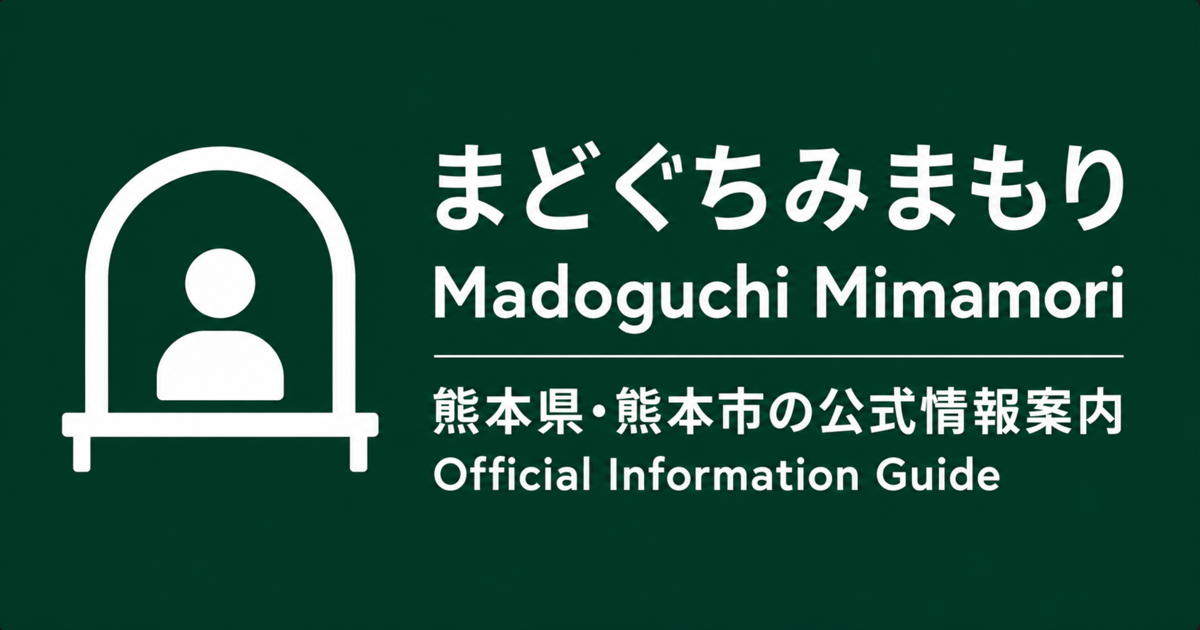
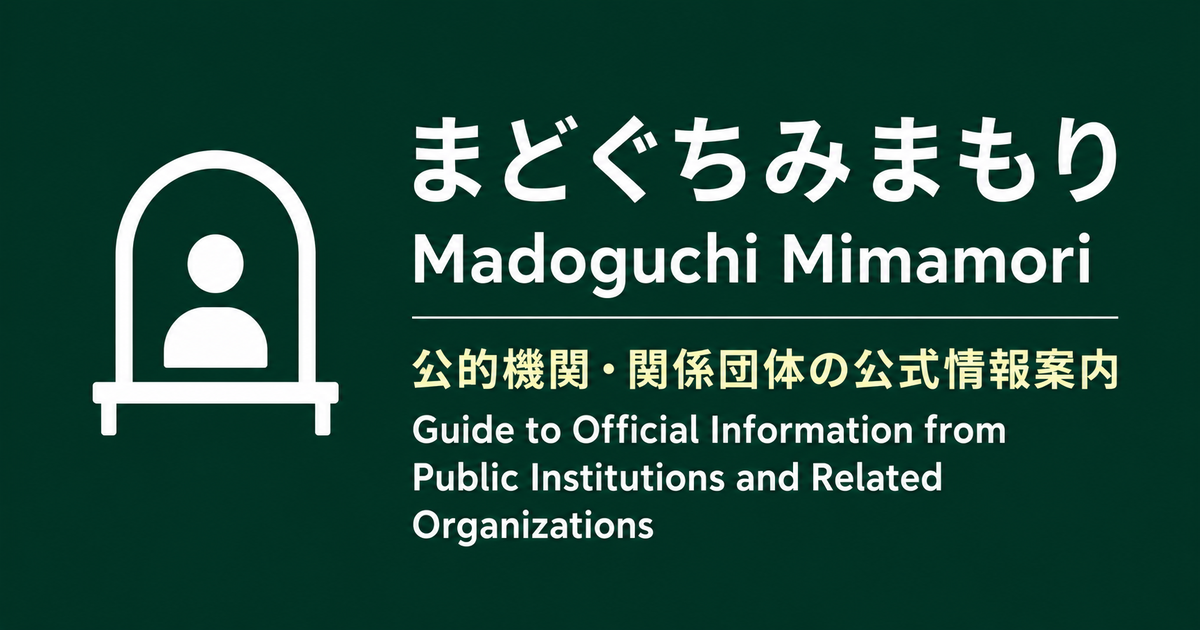
fix: update production OGP image and alt text

Changed region(s): [[0.0308, 0.181, 0.9558, 0.7841], [0.3392, 0.8143, 0.555, 0.8746], [0.9867, 0.9952, 1.0, 1.0]]

diff --git a/dist/site/production/en/regions/kumamoto/sections/public-institutions-disaster/index.html b/dist/site/production/en/regions/kumamoto/sections/public-institutions-disaster/index.html
@@ -23,13 +23,13 @@
   <meta property="og:image:type" content="image/png">
   <meta property="og:image:width" content="1200">
   <meta property="og:image:height" content="630">
-  <meta property="og:image:alt" content="An image with a white open-window symbol and the Madoguchi Mimamori name on a dark green background">
+  <meta property="og:image:alt" content="An image showing the Madoguchi Mimamori name and describing the site as a guide to official information from public institutions and related organizations, with a white open-window symbol on a dark green background">
   <meta name="twitter:card" content="summary_large_image">
   <meta name="twitter:site" content="@na0AaooQ">
   <meta name="twitter:title" content="Public Institutions and General Disaster Information | Kumamoto Prefecture | Madoguchi Mimamori">
   <meta name="twitter:description" content="Find official guidance from governments and public bodies on disaster information, evacuation, rivers, government response, and support.">
   <meta name="twitter:image" content="https://madoguchi.kokoromimamori.na0aaooq.com/ogp-image.png">
-  <meta name="twitter:image:alt" content="An image with a white open-window symbol and the Madoguchi Mimamori name on a dark green background">
+  <meta name="twitter:image:alt" content="An image showing the Madoguchi Mimamori name and describing the site as a guide to official information from public institutions and related organizations, with a white open-window symbol on a dark green background">
   <link rel="alternate" hreflang="en" href="https://madoguchi.kokoromimamori.na0aaooq.com/en/regions/kumamoto/sections/public-institutions-disaster/">
   <link rel="alternate" hreflang="ja" href="https://madoguchi.kokoromimamori.na0aaooq.com/ja/regions/kumamoto/sections/public-institutions-disaster/">
   <link rel="icon" href="/favicon.ico" sizes="16x16 32x32 48x48">

diff --git a/dist/site/production/en/regions/chiba/sections/public-institutions-disaster/index.html b/dist/site/production/en/regions/chiba/sections/public-institutions-disaster/index.html
@@ -23,13 +23,13 @@
   <meta property="og:image:type" content="image/png">
   <meta property="og:image:width" content="1200">
   <meta property="og:image:height" content="630">
-  <meta property="og:image:alt" content="An image with a white open-window symbol and the Madoguchi Mimamori name on a dark green background">
+  <meta property="og:image:alt" content="An image showing the Madoguchi Mimamori name and describing the site as a guide to official information from public institutions and related organizations, with a white open-window symbol on a dark green background">
   <meta name="twitter:card" content="summary_large_image">
   <meta name="twitter:site" content="@na0AaooQ">
   <meta name="twitter:title" content="Public Institutions and General Disaster Information | Chiba Prefecture | Madoguchi Mimamori">
   <meta name="twitter:description" content="Find official guidance from governments and public bodies on disaster information, evacuation, rivers, government response, and support.">
   <meta name="twitter:image" content="https://madoguchi.kokoromimamori.na0aaooq.com/ogp-image.png">
-  <meta name="twitter:image:alt" content="An image with a white open-window symbol and the Madoguchi Mimamori name on a dark green background">
+  <meta name="twitter:image:alt" content="An image showing the Madoguchi Mimamori name and describing the site as a guide to official information from public institutions and related organizations, with a white open-window symbol on a dark green background">
   <link rel="alternate" hreflang="en" href="https://madoguchi.kokoromimamori.na0aaooq.com/en/regions/chiba/sections/public-institutions-disaster/">
   <link rel="alternate" hreflang="ja" href="https://madoguchi.kokoromimamori.na0aaooq.com/ja/regions/chiba/sections/public-institutions-disaster/">
   <link rel="icon" href="/favicon.ico" sizes="16x16 32x32 48x48">

diff --git a/dist/site/production/en/index.html b/dist/site/production/en/index.html
@@ -23,13 +23,13 @@
   <meta property="og:image:type" content="image/png">
   <meta property="og:image:width" content="1200">
   <meta property="og:image:height" content="630">
-  <meta property="og:image:alt" content="An image with a white open-window symbol and the Madoguchi Mimamori name on a dark green background">
+  <meta property="og:image:alt" content="An image showing the Madoguchi Mimamori name and describing the site as a guide to official information from public institutions and related organizations, with a white open-window symbol on a dark green background">
   <meta name="twitter:card" content="summary_large_image">
   <meta name="twitter:site" content="@na0AaooQ">
   <meta name="twitter:title" content="Madoguchi Mimamori | Guide to Official Information from Public Institutions and Related Organizations">
   <meta name="twitter:description" content="A guide that helps users find the responsible public institution or related organization and proceed to that organization&#39;s own official information during disasters and other situations.">
   <meta name="twitter:image" content="https://madoguchi.kokoromimamori.na0aaooq.com/ogp-image.png">
-  <meta name="twitter:image:alt" content="An image with a white open-window symbol and the Madoguchi Mimamori name on a dark green background">
+  <meta name="twitter:image:alt" content="An image showing the Madoguchi Mimamori name and describing the site as a guide to official information from public institutions and related organizations, with a white open-window symbol on a dark green background">
   <link rel="alternate" hreflang="en" href="https://madoguchi.kokoromimamori.na0aaooq.com/en/">
   <link rel="alternate" hreflang="ja" href="https://madoguchi.kokoromimamori.na0aaooq.com/ja/">
   <link rel="icon" href="/favicon.ico" sizes="16x16 32x32 48x48">

diff --git a/dist/site/production/ja/regions/kumamoto/sections/public-institutions-disaster/index.html b/dist/site/production/ja/regions/kumamoto/sections/public-institutions-disaster/index.html
@@ -23,13 +23,13 @@
   <meta property="og:image:type" content="image/png">
   <meta property="og:image:width" content="1200">
   <meta property="og:image:height" content="630">
-  <meta property="og:image:alt" content="濃緑の背景に白い窓口のマークと、まどぐちみまもりの日英名称を表示した画像">
+  <meta property="og:image:alt" content="濃緑の背景に白い窓口のマークと「まどぐちみまもり / Madoguchi Mimamori」、公的機関・関係団体の公式情報案内であることを示す日英表記を表示した画像">
   <meta name="twitter:card" content="summary_large_image">
   <meta name="twitter:site" content="@na0AaooQ">
   <meta name="twitter:title" content="公的機関・防災全般｜熊本県｜まどぐちみまもり">
   <meta name="twitter:description" content="国・自治体の防災情報、避難、河川、行政対応や支援の公式案内を探します。">
   <meta name="twitter:image" content="https://madoguchi.kokoromimamori.na0aaooq.com/ogp-image.png">
-  <meta name="twitter:image:alt" content="濃緑の背景に白い窓口のマークと、まどぐちみまもりの日英名称を表示した画像">
+  <meta name="twitter:image:alt" content="濃緑の背景に白い窓口のマークと「まどぐちみまもり / Madoguchi Mimamori」、公的機関・関係団体の公式情報案内であることを示す日英表記を表示した画像">
   <link rel="alternate" hreflang="ja" href="https://madoguchi.kokoromimamori.na0aaooq.com/ja/regions/kumamoto/sections/public-institutions-disaster/">
   <link rel="alternate" hreflang="en" href="https://madoguchi.kokoromimamori.na0aaooq.com/en/regions/kumamoto/sections/public-institutions-disaster/">
   <link rel="icon" href="/favicon.ico" sizes="16x16 32x32 48x48">

diff --git a/dist/site/production/ja/regions/chiba/sections/public-institutions-disaster/index.html b/dist/site/production/ja/regions/chiba/sections/public-institutions-disaster/index.html
@@ -23,13 +23,13 @@
   <meta property="og:image:type" content="image/png">
   <meta property="og:image:width" content="1200">
   <meta property="og:image:height" content="630">
-  <meta property="og:image:alt" content="濃緑の背景に白い窓口のマークと、まどぐちみまもりの日英名称を表示した画像">
+  <meta property="og:image:alt" content="濃緑の背景に白い窓口のマークと「まどぐちみまもり / Madoguchi Mimamori」、公的機関・関係団体の公式情報案内であることを示す日英表記を表示した画像">
   <meta name="twitter:card" content="summary_large_image">
   <meta name="twitter:site" content="@na0AaooQ">
   <meta name="twitter:title" content="公的機関・防災全般｜千葉県｜まどぐちみまもり">
   <meta name="twitter:description" content="国・自治体の防災情報、避難、河川、行政対応や支援の公式案内を探します。">
   <meta name="twitter:image" content="https://madoguchi.kokoromimamori.na0aaooq.com/ogp-image.png">
-  <meta name="twitter:image:alt" content="濃緑の背景に白い窓口のマークと、まどぐちみまもりの日英名称を表示した画像">
+  <meta name="twitter:image:alt" content="濃緑の背景に白い窓口のマークと「まどぐちみまもり / Madoguchi Mimamori」、公的機関・関係団体の公式情報案内であることを示す日英表記を表示した画像">
   <link rel="alternate" hreflang="ja" href="https://madoguchi.kokoromimamori.na0aaooq.com/ja/regions/chiba/sections/public-institutions-disaster/">
   <link rel="alternate" hreflang="en" href="https://madoguchi.kokoromimamori.na0aaooq.com/en/regions/chiba/sections/public-institutions-disaster/">
   <link rel="icon" href="/favicon.ico" sizes="16x16 32x32 48x48">

diff --git a/dist/site/production/en/regions/kumamoto/sections/support-recovery/index.html b/dist/site/production/en/regions/kumamoto/sections/support-recovery/index.html
@@ -23,13 +23,13 @@
   <meta property="og:image:type" content="image/png">
   <meta property="og:image:width" content="1200">
   <meta property="og:image:height" content="630">
-  <meta property="og:image:alt" content="An image with a white open-window symbol and the Madoguchi Mimamori name on a dark green background">
+  <meta property="og:image:alt" content="An image showing the Madoguchi Mimamori name and describing the site as a guide to official information from public institutions and related organizations, with a white open-window symbol on a dark green background">
   <meta name="twitter:card" content="summary_large_image">
   <meta name="twitter:site" content="@na0AaooQ">
   <meta name="twitter:title" content="Support and Recovery | Kumamoto Prefecture | Madoguchi Mimamori">
   <meta name="twitter:description" content="Find official guidance on disaster damage certificates, housing, welfare, business support, relief donations, and recovery.">
   <meta name="twitter:image" content="https://madoguchi.kokoromimamori.na0aaooq.com/ogp-image.png">
-  <meta name="twitter:image:alt" content="An image with a white open-window symbol and the Madoguchi Mimamori name on a dark green background">
+  <meta name="twitter:image:alt" content="An image showing the Madoguchi Mimamori name and describing the site as a guide to official information from public institutions and related organizations, with a white open-window symbol on a dark green background">
   <link rel="alternate" hreflang="en" href="https://madoguchi.kokoromimamori.na0aaooq.com/en/regions/kumamoto/sections/support-recovery/">
   <link rel="alternate" hreflang="ja" href="https://madoguchi.kokoromimamori.na0aaooq.com/ja/regions/kumamoto/sections/support-recovery/">
   <link rel="icon" href="/favicon.ico" sizes="16x16 32x32 48x48">

diff --git a/dist/site/production/en/regions/kumamoto/sections/life-safety-medical/index.html b/dist/site/production/en/regions/kumamoto/sections/life-safety-medical/index.html
@@ -23,13 +23,13 @@
   <meta property="og:image:type" content="image/png">
   <meta property="og:image:width" content="1200">
   <meta property="og:image:height" content="630">
-  <meta property="og:image:alt" content="An image with a white open-window symbol and the Madoguchi Mimamori name on a dark green background">
+  <meta property="og:image:alt" content="An image showing the Madoguchi Mimamori name and describing the site as a guide to official information from public institutions and related organizations, with a white open-window symbol on a dark green background">
   <meta name="twitter:card" content="summary_large_image">
   <meta name="twitter:site" content="@na0AaooQ">
   <meta name="twitter:title" content="Life, Safety, and Medical Care | Kumamoto Prefecture | Madoguchi Mimamori">
   <meta name="twitter:description" content="Find official guidance on police, fire and ambulance services, medical care, and emergency consultation.">
   <meta name="twitter:image" content="https://madoguchi.kokoromimamori.na0aaooq.com/ogp-image.png">
-  <meta name="twitter:image:alt" content="An image with a white open-window symbol and the Madoguchi Mimamori name on a dark green background">
+  <meta name="twitter:image:alt" content="An image showing the Madoguchi Mimamori name and describing the site as a guide to official information from public institutions and related organizations, with a white open-window symbol on a dark green background">
   <link rel="alternate" hreflang="en" href="https://madoguchi.kokoromimamori.na0aaooq.com/en/regions/kumamoto/sections/life-safety-medical/">
   <link rel="alternate" hreflang="ja" href="https://madoguchi.kokoromimamori.na0aaooq.com/ja/regions/kumamoto/sections/life-safety-medical/">
   <link rel="icon" href="/favicon.ico" sizes="16x16 32x32 48x48">

diff --git a/dist/site/production/en/regions/kumamoto/organizations/index.html b/dist/site/production/en/regions/kumamoto/organizations/index.html
@@ -23,13 +23,13 @@
   <meta property="og:image:type" content="image/png">
   <meta property="og:image:width" content="1200">
   <meta property="og:image:height" content="630">
-  <meta property="og:image:alt" content="An image with a white open-window symbol and the Madoguchi Mimamori name on a dark green background">
+  <meta property="og:image:alt" content="An image showing the Madoguchi Mimamori name and describing the site as a guide to official information from public institutions and related organizations, with a white open-window symbol on a dark green background">
   <meta name="twitter:card" content="summary_large_image">
   <meta name="twitter:site" content="@na0AaooQ">
   <meta name="twitter:title" content="All Organizations and Destinations | Kumamoto Prefecture | Madoguchi Mimamori">
   <meta name="twitter:description" content="Review published organizations and destinations by organization name. You can also use your browser&#39;s find-in-page feature.">
   <meta name="twitter:image" content="https://madoguchi.kokoromimamori.na0aaooq.com/ogp-image.png">
-  <meta name="twitter:image:alt" content="An image with a white open-window symbol and the Madoguchi Mimamori name on a dark green background">
+  <meta name="twitter:image:alt" content="An image showing the Madoguchi Mimamori name and describing the site as a guide to official information from public institutions and related organizations, with a white open-window symbol on a dark green background">
   <link rel="alternate" hreflang="en" href="https://madoguchi.kokoromimamori.na0aaooq.com/en/regions/kumamoto/organizations/">
   <link rel="alternate" hreflang="ja" href="https://madoguchi.kokoromimamori.na0aaooq.com/ja/regions/kumamoto/organizations/">
   <link rel="icon" href="/favicon.ico" sizes="16x16 32x32 48x48">

diff --git a/dist/site/production/index.html b/dist/site/production/index.html
@@ -23,13 +23,13 @@
   <meta property="og:image:type" content="image/png">
   <meta property="og:image:width" content="1200">
   <meta property="og:image:height" content="630">
-  <meta property="og:image:alt" content="濃緑の背景に白い窓口のマークと、まどぐちみまもりの日英名称を表示した画像">
+  <meta property="og:image:alt" content="濃緑の背景に白い窓口のマークと「まどぐちみまもり / Madoguchi Mimamori」、公的機関・関係団体の公式情報案内であることを示す日英表記を表示した画像">
   <meta name="twitter:card" content="summary_large_image">
   <meta name="twitter:site" content="@na0AaooQ">
   <meta name="twitter:title" content="まどぐちみまもり｜Madoguchi Mimamori">
   <meta name="twitter:description" content="公開中の地域について、公的機関・関係団体自身の公式情報へ進むための案内サイトです。 / A guide to official information published by public institutions and related organizations for the regions currently covered by this site.">
   <meta name="twitter:image" content="https://madoguchi.kokoromimamori.na0aaooq.com/ogp-image.png">
-  <meta name="twitter:image:alt" content="濃緑の背景に白い窓口のマークと、まどぐちみまもりの日英名称を表示した画像">
+  <meta name="twitter:image:alt" content="濃緑の背景に白い窓口のマークと「まどぐちみまもり / Madoguchi Mimamori」、公的機関・関係団体の公式情報案内であることを示す日英表記を表示した画像">
   <link rel="icon" href="/favicon.ico" sizes="16x16 32x32 48x48">
   <link rel="icon" href="/favicon.svg" type="image/svg+xml" sizes="any">
   <link rel="apple-touch-icon" href="/apple-touch-icon.png" sizes="180x180">

diff --git a/dist/site/production/en/regions/chiba/sections/support-recovery/index.html b/dist/site/production/en/regions/chiba/sections/support-recovery/index.html
@@ -23,13 +23,13 @@
   <meta property="og:image:type" content="image/png">
   <meta property="og:image:width" content="1200">
   <meta property="og:image:height" content="630">
-  <meta property="og:image:alt" content="An image with a white open-window symbol and the Madoguchi Mimamori name on a dark green background">
+  <meta property="og:image:alt" content="An image showing the Madoguchi Mimamori name and describing the site as a guide to official information from public institutions and related organizations, with a white open-window symbol on a dark green background">
   <meta name="twitter:card" content="summary_large_image">
   <meta name="twitter:site" content="@na0AaooQ">
   <meta name="twitter:title" content="Support and Recovery | Chiba Prefecture | Madoguchi Mimamori">
   <meta name="twitter:description" content="Find official guidance on disaster damage certificates, housing, welfare, business support, relief donations, and recovery.">
   <meta name="twitter:image" content="https://madoguchi.kokoromimamori.na0aaooq.com/ogp-image.png">
-  <meta name="twitter:image:alt" content="An image with a white open-window symbol and the Madoguchi Mimamori name on a dark green background">
+  <meta name="twitter:image:alt" content="An image showing the Madoguchi Mimamori name and describing the site as a guide to official information from public institutions and related organizations, with a white open-window symbol on a dark green background">
   <link rel="alternate" hreflang="en" href="https://madoguchi.kokoromimamori.na0aaooq.com/en/regions/chiba/sections/support-recovery/">
   <link rel="alternate" hreflang="ja" href="https://madoguchi.kokoromimamori.na0aaooq.com/ja/regions/chiba/sections/support-recovery/">
   <link rel="icon" href="/favicon.ico" sizes="16x16 32x32 48x48">

diff --git a/dist/site/production/en/regions/chiba/sections/life-safety-medical/index.html b/dist/site/production/en/regions/chiba/sections/life-safety-medical/index.html
@@ -23,13 +23,13 @@
   <meta property="og:image:type" content="image/png">
   <meta property="og:image:width" content="1200">
   <meta property="og:image:height" content="630">
-  <meta property="og:image:alt" content="An image with a white open-window symbol and the Madoguchi Mimamori name on a dark green background">
+  <meta property="og:image:alt" content="An image showing the Madoguchi Mimamori name and describing the site as a guide to official information from public institutions and related organizations, with a white open-window symbol on a dark green background">
   <meta name="twitter:card" content="summary_large_image">
   <meta name="twitter:site" content="@na0AaooQ">
   <meta name="twitter:title" content="Life, Safety, and Medical Care | Chiba Prefecture | Madoguchi Mimamori">
   <meta name="twitter:description" content="Find official guidance on police, fire and ambulance services, medical care, and emergency consultation.">
   <meta name="twitter:image" content="https://madoguchi.kokoromimamori.na0aaooq.com/ogp-image.png">
-  <meta name="twitter:image:alt" content="An image with a white open-window symbol and the Madoguchi Mimamori name on a dark green background">
+  <meta name="twitter:image:alt" content="An image showing the Madoguchi Mimamori name and describing the site as a guide to official information from public institutions and related organizations, with a white open-window symbol on a dark green background">
   <link rel="alternate" hreflang="en" href="https://madoguchi.kokoromimamori.na0aaooq.com/en/regions/chiba/sections/life-safety-medical/">
   <link rel="alternate" hreflang="ja" href="https://madoguchi.kokoromimamori.na0aaooq.com/ja/regions/chiba/sections/life-safety-medical/">
   <link rel="icon" href="/favicon.ico" sizes="16x16 32x32 48x48">

diff --git a/dist/site/production/en/regions/chiba/organizations/index.html b/dist/site/production/en/regions/chiba/organizations/index.html
@@ -23,13 +23,13 @@
   <meta property="og:image:type" content="image/png">
   <meta property="og:image:width" content="1200">
   <meta property="og:image:height" content="630">
-  <meta property="og:image:alt" content="An image with a white open-window symbol and the Madoguchi Mimamori name on a dark green background">
+  <meta property="og:image:alt" content="An image showing the Madoguchi Mimamori name and describing the site as a guide to official information from public institutions and related organizations, with a white open-window symbol on a dark green background">
   <meta name="twitter:card" content="summary_large_image">
   <meta name="twitter:site" content="@na0AaooQ">
   <meta name="twitter:title" content="All Organizations and Destinations | Chiba Prefecture | Madoguchi Mimamori">
   <meta name="twitter:description" content="Review published organizations and destinations by organization name. You can also use your browser&#39;s find-in-page feature.">
   <meta name="twitter:image" content="https://madoguchi.kokoromimamori.na0aaooq.com/ogp-image.png">
-  <meta name="twitter:image:alt" content="An image with a white open-window symbol and the Madoguchi Mimamori name on a dark green background">
+  <meta name="twitter:image:alt" content="An image showing the Madoguchi Mimamori name and describing the site as a guide to official information from public institutions and related organizations, with a white open-window symbol on a dark green background">
   <link rel="alternate" hreflang="en" href="https://madoguchi.kokoromimamori.na0aaooq.com/en/regions/chiba/organizations/">
   <link rel="alternate" hreflang="ja" href="https://madoguchi.kokoromimamori.na0aaooq.com/ja/regions/chiba/organizations/">
   <link rel="icon" href="/favicon.ico" sizes="16x16 32x32 48x48">
